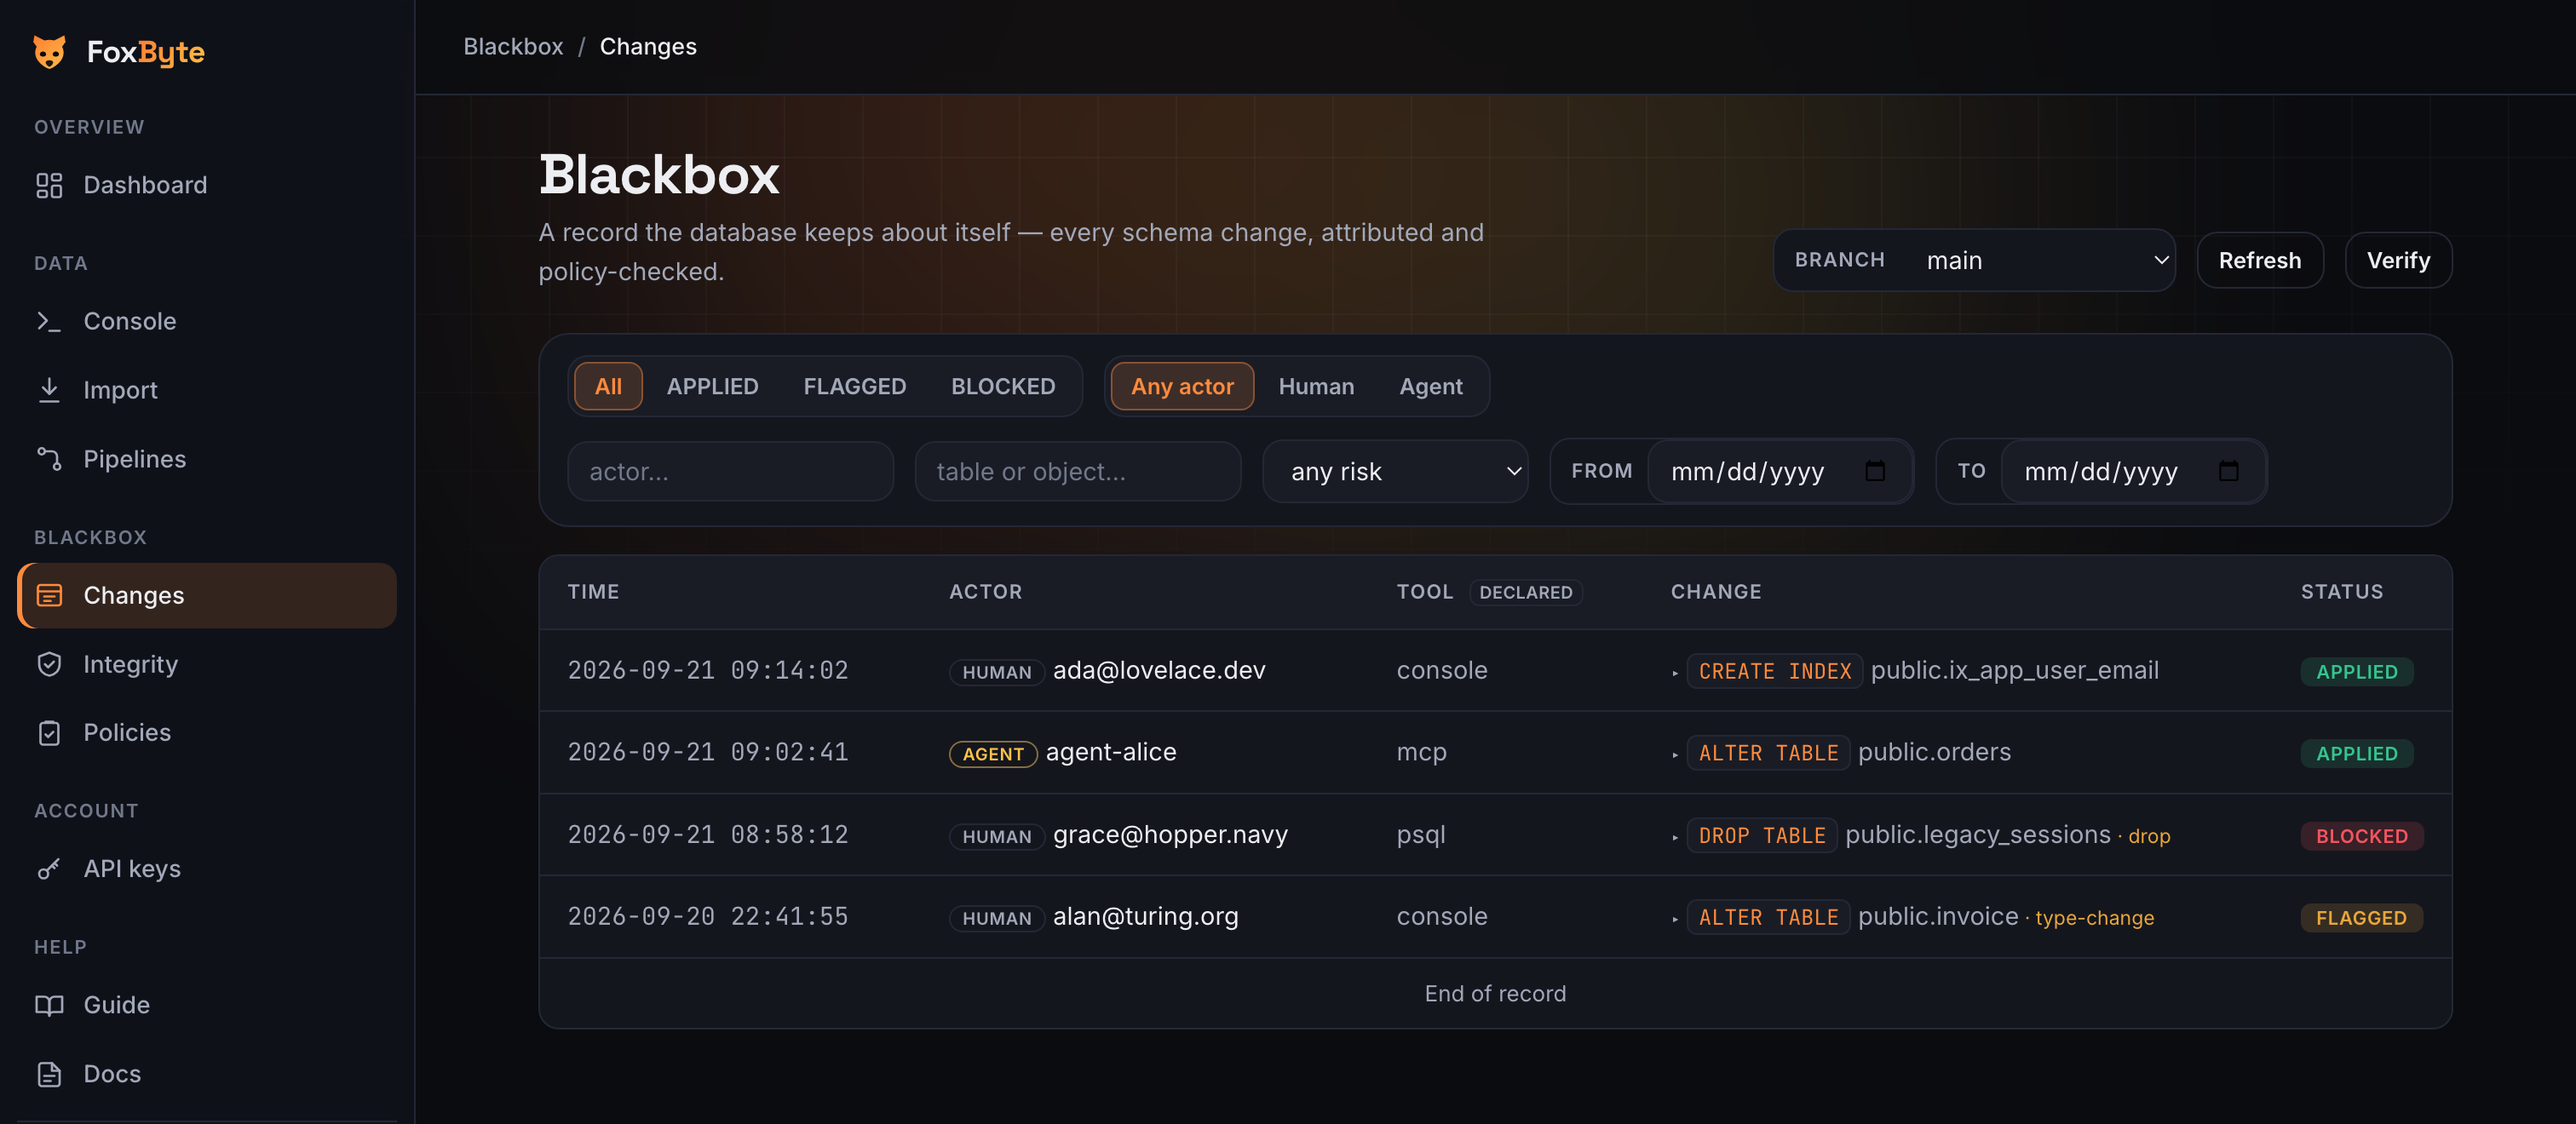
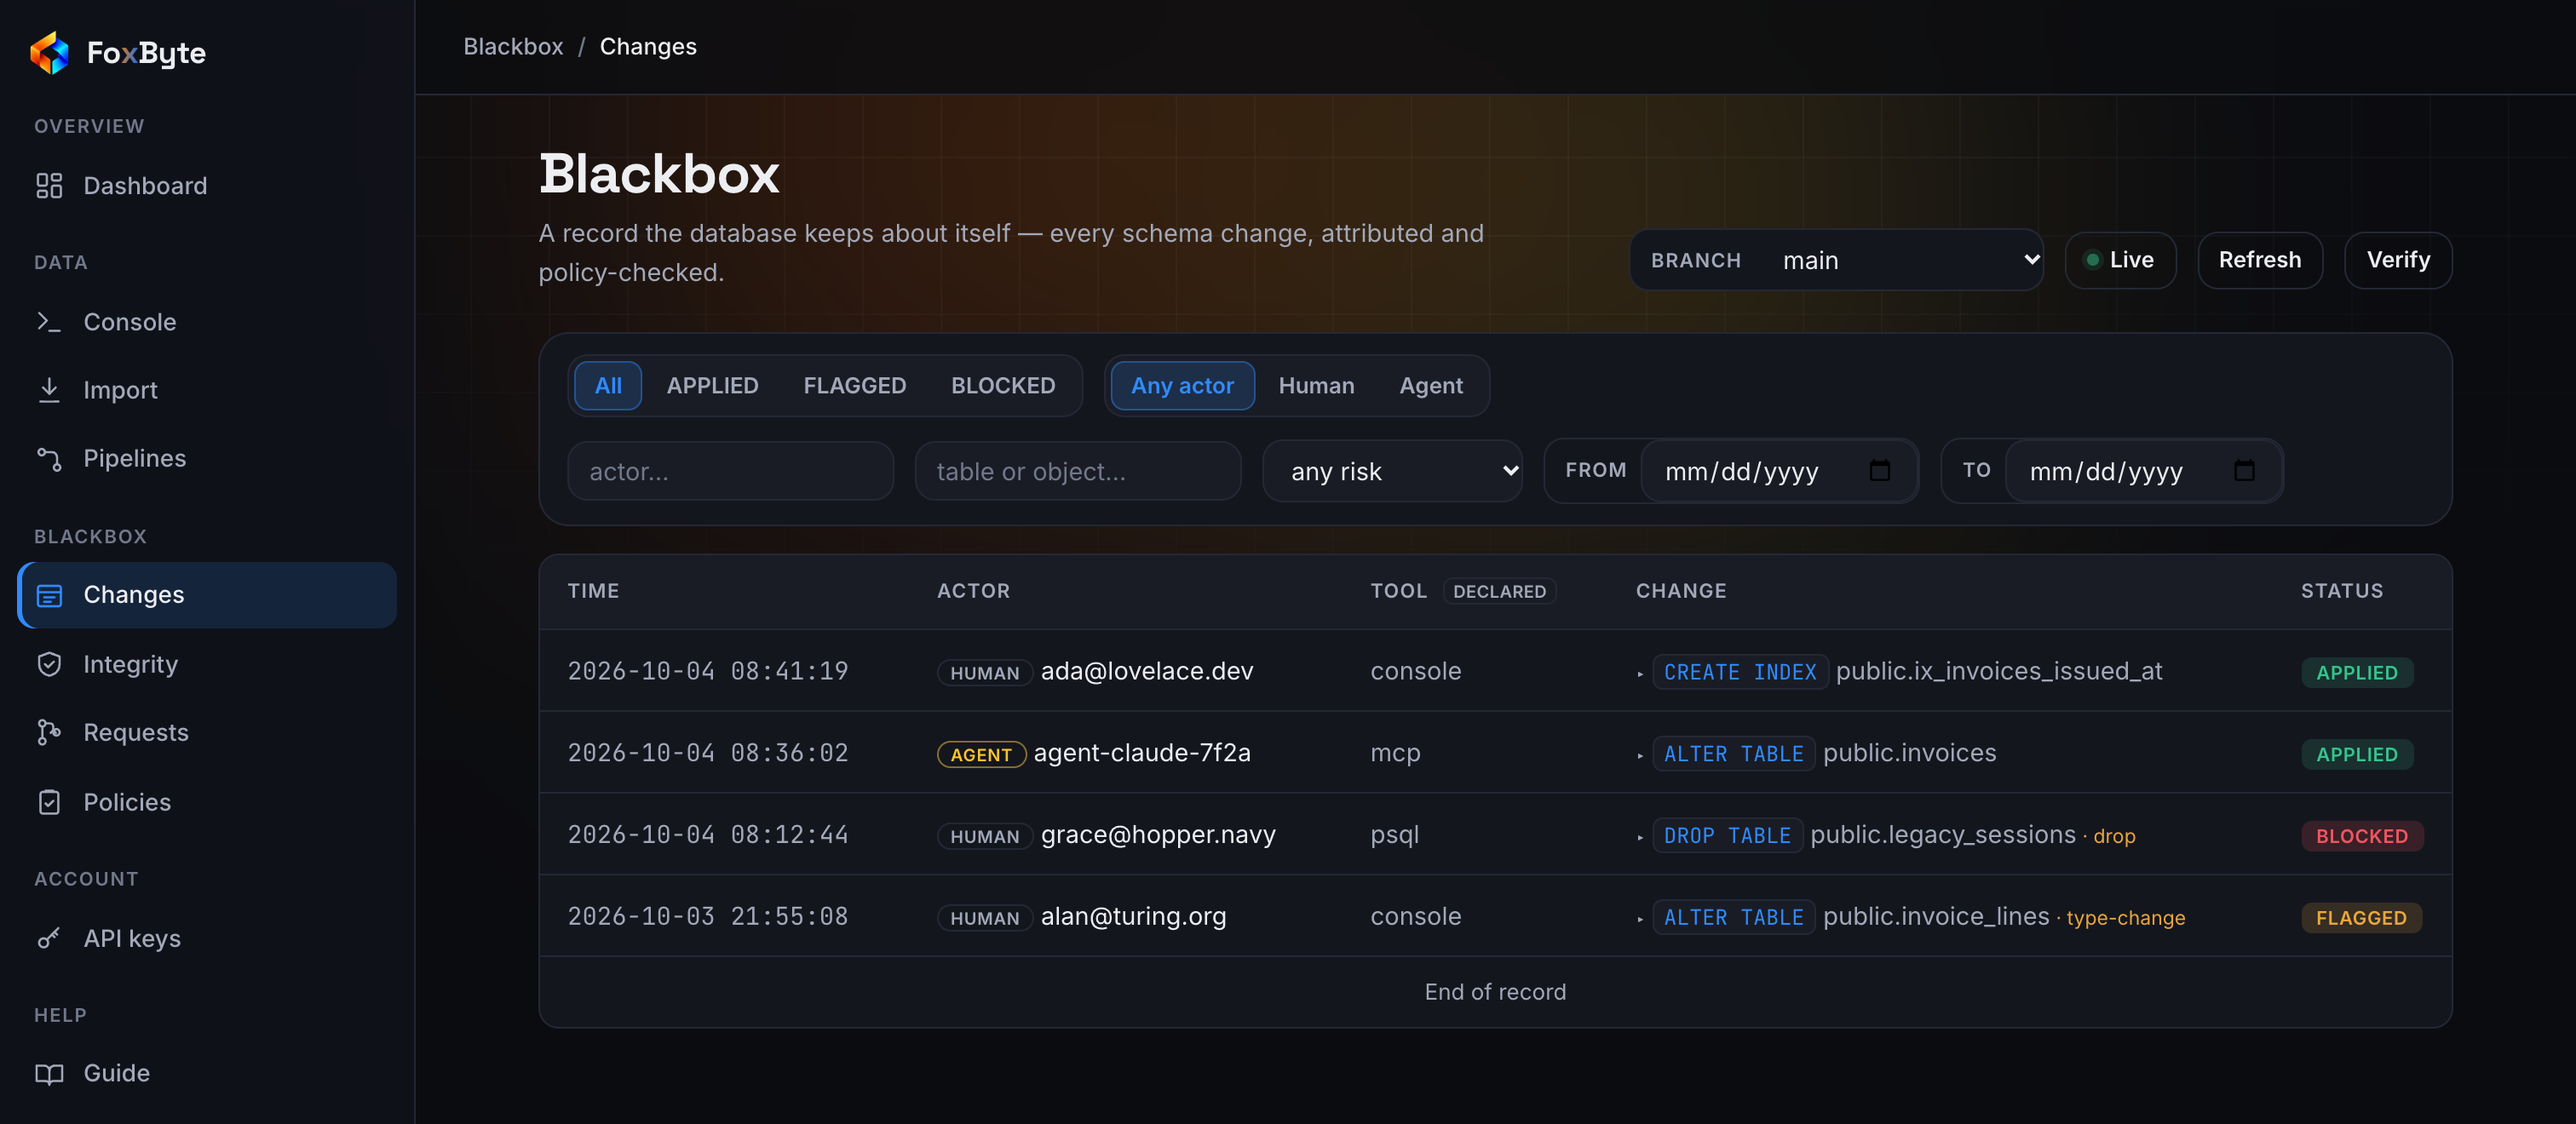
docs: retake the Blackbox screenshot too
It was the one image left showing the fox-head mark and the orange
accent, sitting between two pages that had been retaken.

Same composition as the shot it replaces, deliberately: a human and an
agent, something applied, something refused by policy and something
flagged. Four identical APPLIED rows would say nothing about what the
page is for, which is attribution and the policy gate. Same geometry
too, 3024x1320.

The harness grew the Blackbox's entries and verify endpoints. Its sample
entries carry real-looking row_hash and prev_hash values chained in the
right direction — each row's prev_hash is the row_hash of the entry
recorded before it — because the expanded view draws that link, and a
screenshot that showed it pointing nowhere would be a picture of the one
thing this page exists to prove.

diff --git a/docs/screenshots/README.md b/docs/screenshots/README.md
@@ -9,19 +9,15 @@ These images are referenced by the top-level `README.md`.
 | `ledger.png` | Blackbox | **Changes** in the sidebar |
 | `console.png` | SQL console | **Console** in the sidebar |
 
-`landing.png`, `dashboard.png` and `console.png` were captured 4 October 2026 on
-the new logo and palette. **`ledger.png` was not** — it is from 21 September and
-still shows the fox-head mark and the orange accent, so it is the odd one in the
-table until it is retaken.
-
-All of them: dark theme, 1512 logical pixels wide at a device pixel ratio of 2,
-so ~3024px files, which is what looks right on GitHub.
+All four were captured 4 October 2026 on the new logo and palette: dark theme,
+1512 logical pixels wide at a device pixel ratio of 2, so ~3024px files, which
+is what looks right on GitHub.
 
 The data is sample data, not a real install: a fresh install has one empty
 branch, which makes a dull picture. The pages are served from `web/dist` with a
 canned control plane behind them — a script that answers `/auth/me`,
-`/api/status`, `/api/branches`, `/api/backups`, the branch admins endpoint and
-the query endpoint with literals, and falls back to `index.html` so the app's
+`/api/status`, `/api/branches`, `/api/backups`, the branch admins endpoint, the
+Blackbox's entries and verify endpoints, and the query endpoint with literals, and falls back to `index.html` so the app's
 own routing works.
 
 The console is driven rather than merely loaded, because it is only worth a
